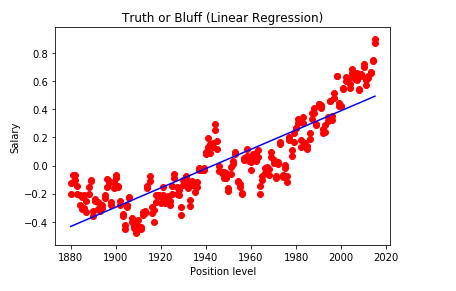
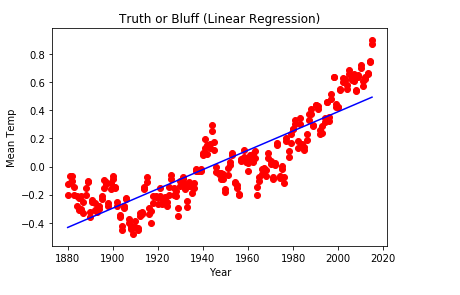
Add files via upload

Changed region(s): [[0.0, 0.0309, 0.8904, 0.9588]]

diff --git a/Annual Temperature.py b/Annual Temperature.py
@@ -37,16 +37,16 @@ lin_reg_2.fit(a_poly, b)
 plt.scatter(a, b, color = 'red')
 plt.plot(a, lin_reg.predict(a), color = 'blue')
 plt.title('Truth or Bluff (Linear Regression)')
-plt.xlabel('Position level')
-plt.ylabel('Salary')
+plt.xlabel('Year')
+plt.ylabel('Mean Temp')
 plt.show()
 
 # Visualising the Polynomial Regression results
 plt.scatter(a, b, color = 'red')
 plt.plot(a, lin_reg_2.predict(poly_reg.fit_transform(a)), color = 'blue')
 plt.title('Truth or Bluff (Polynomial Regression)')
-plt.xlabel('Position level')
-plt.ylabel('Salary')
+plt.xlabel('Year')
+plt.ylabel('Mean Temp')
 plt.show()
 
 print('Mean Temperature In 2016 Will Be')
